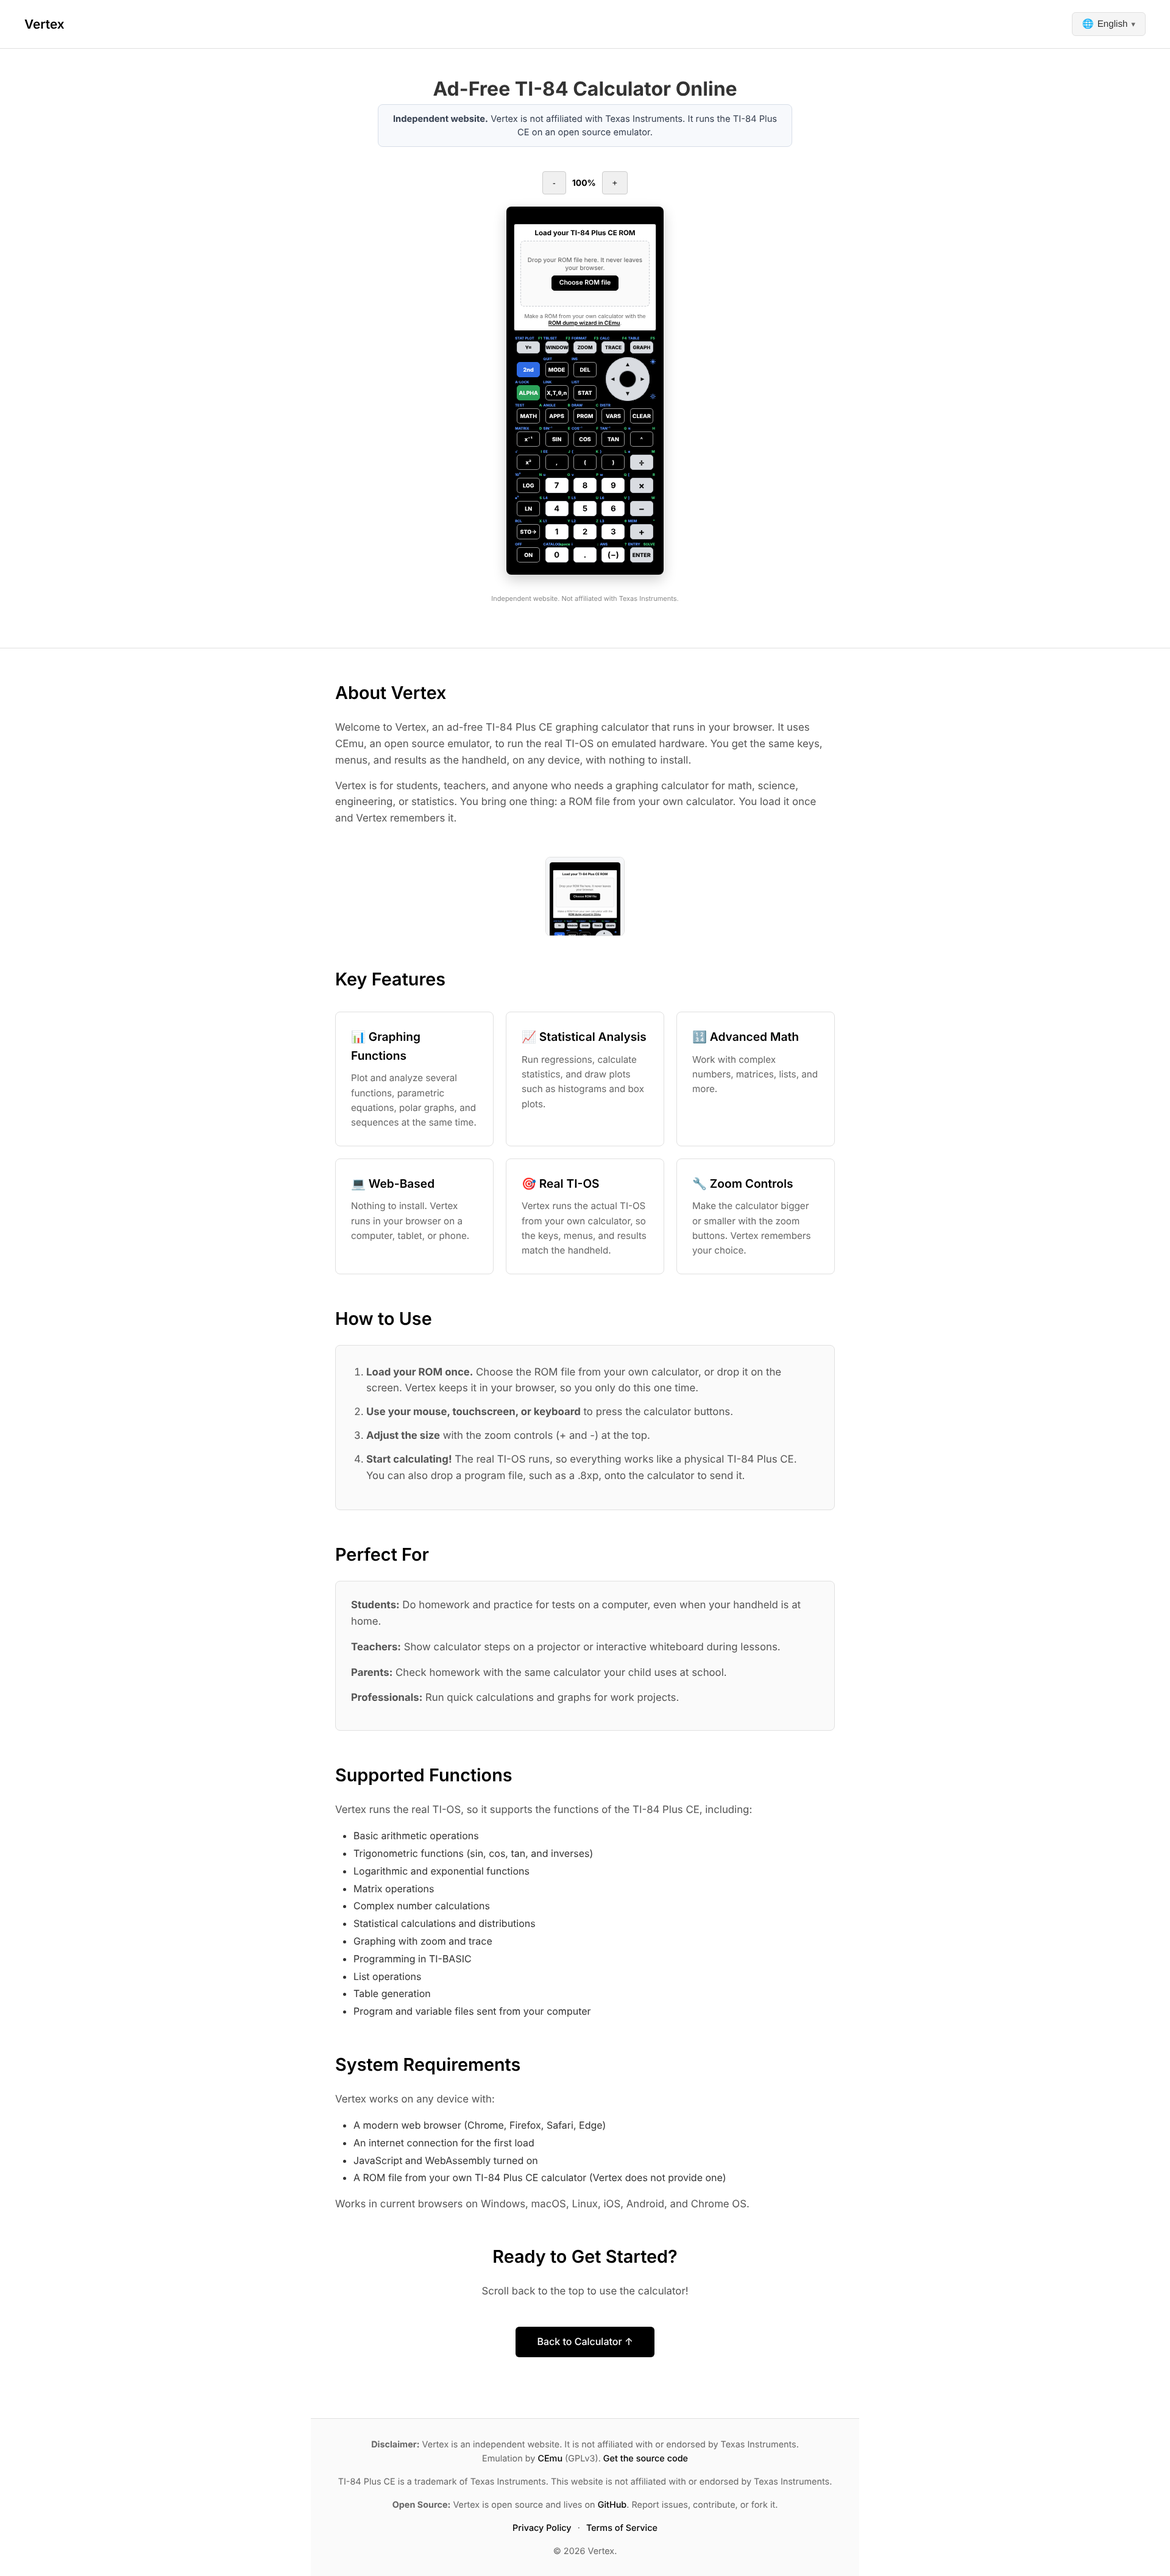
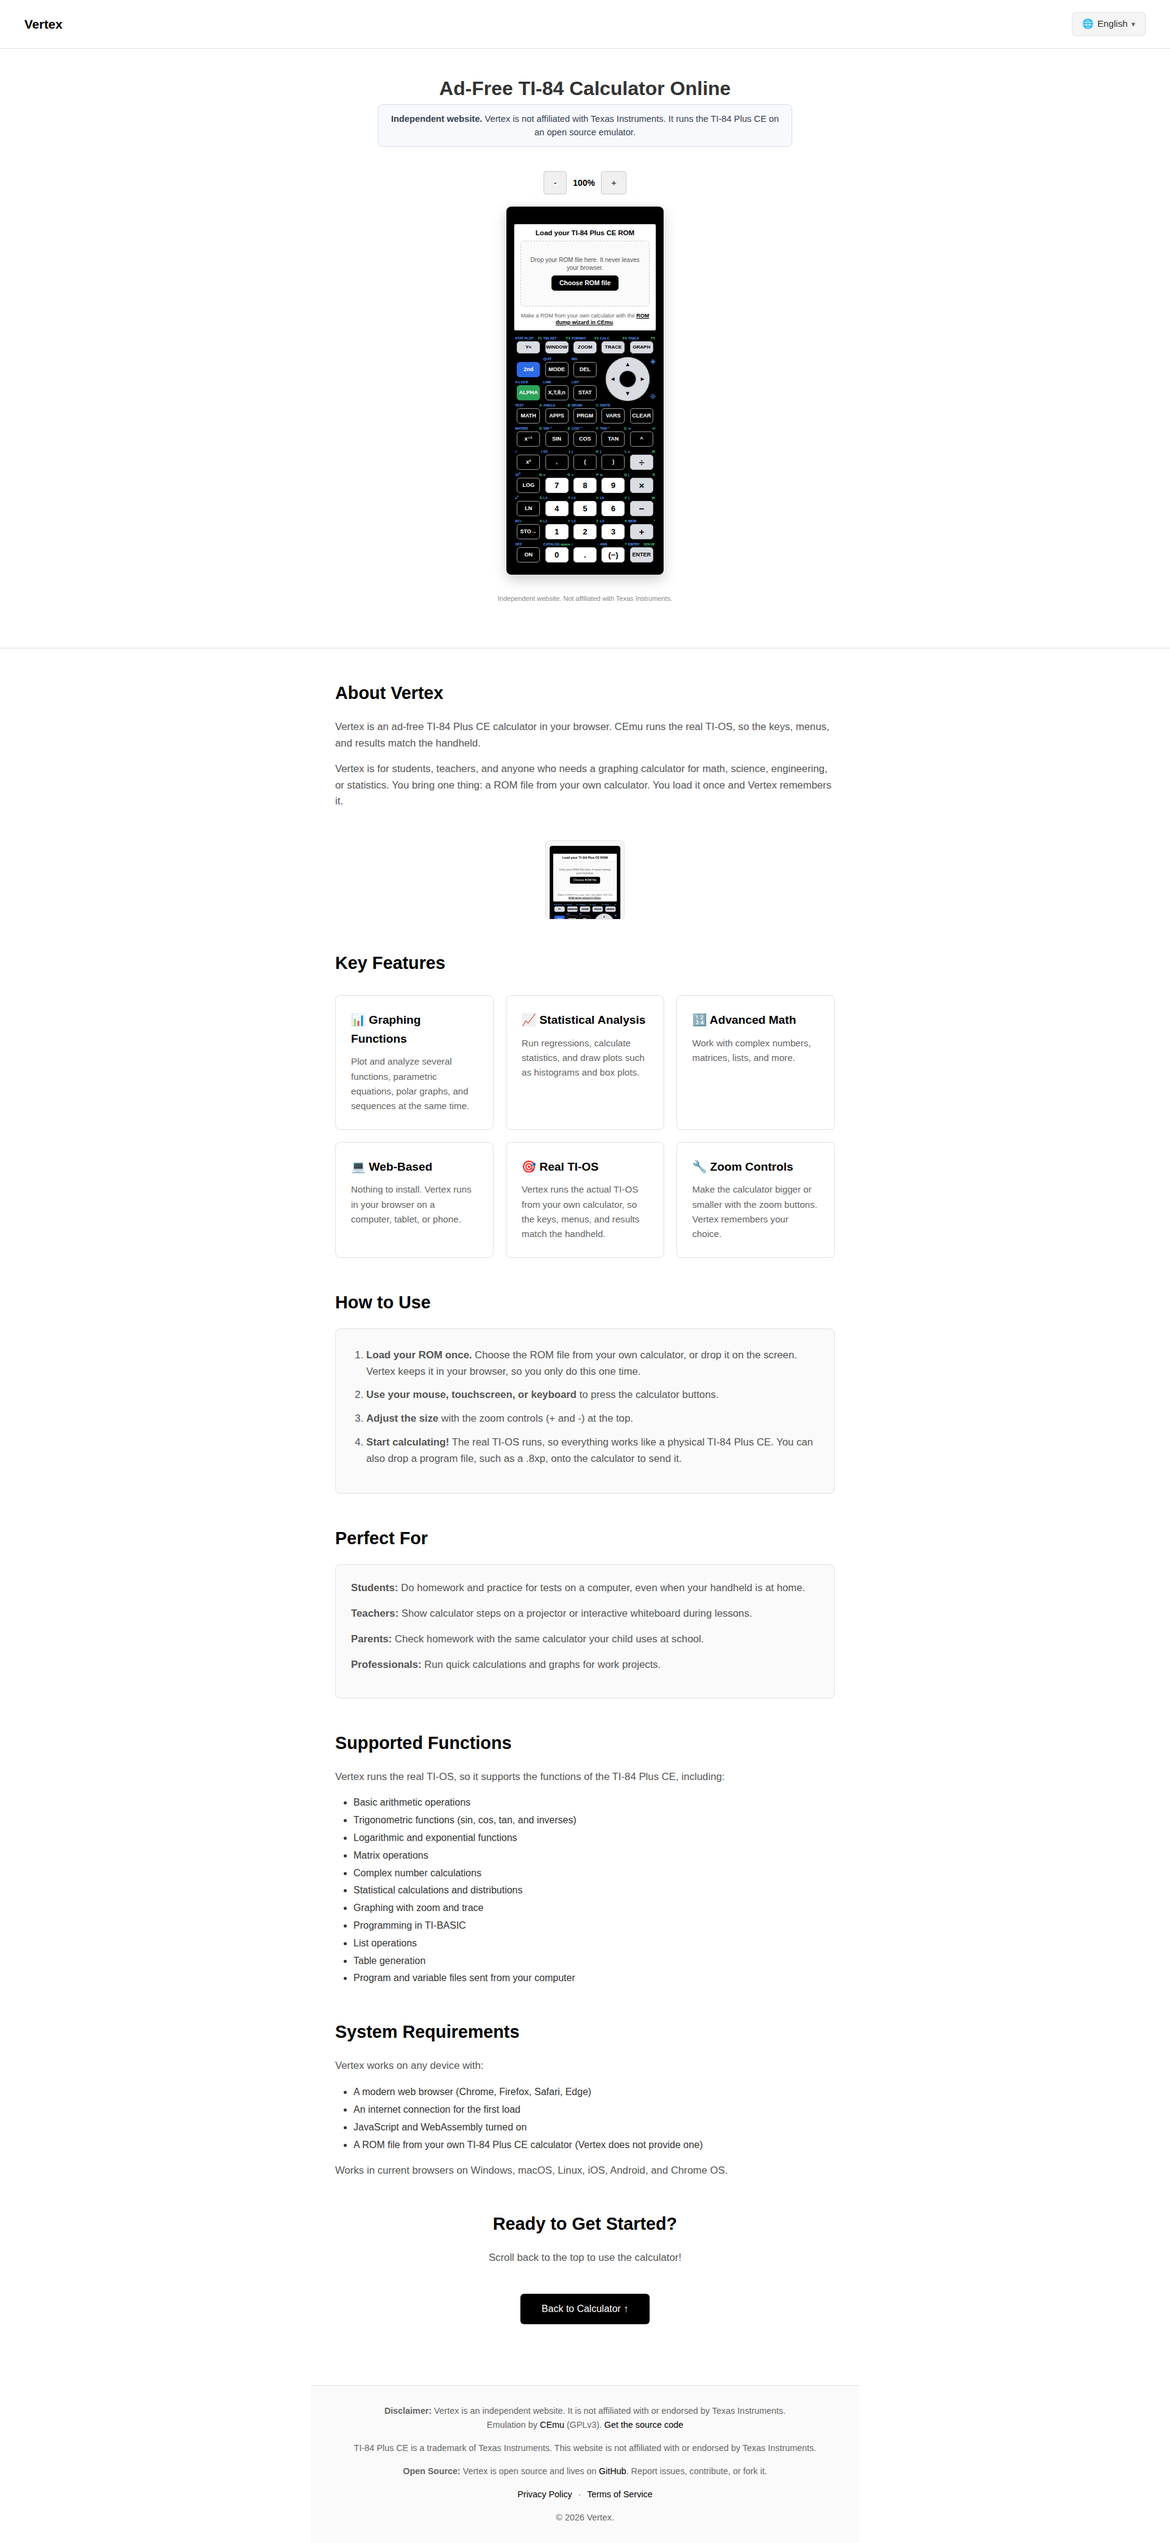
fix(site): shorter About copy in nine languages, calmer legend spacing, R2b docs
- The first About paragraph is shortened in en fr de ja it es pt sv ru so it wraps to two lines at 1920 px. The ROM
  paragraph is unchanged. Each language keeps its ad-free phrase. About to Key Features measures 443.0 (was 469.9).
- copy.test.ts caps the paragraph length and keeps the ROM sentence. e2e/site.spec.ts measures the real wrap per language.
- Legends: letter-spacing -0.02em so CATALOG and space no longer touch in the default font (1.1 px gap at 100% and 135%).
- Docs: STATUS, DECISIONS (R2b) and VERIFICATION (F1, F5, F9, F10, F11) with the new numbers. Fresh screenshots and
  legend crops. compare-reference.mjs could not run (reference file not in this sandbox), Firefox and WebKit not run.

Claude-Session: https://claude.ai/code/session_01JjD4aa8Tj5dBMUu8wuaNiu

diff --git a/ru/index.html b/ru/index.html
@@ -52,7 +52,7 @@
         <div class="content">
             <div class="section">
                 <h2>О Vertex</h2>
-                <p>Добро пожаловать в Vertex, графический калькулятор TI-84 Plus CE без рекламы, который работает в вашем браузере. Он использует CEmu, эмулятор с открытым исходным кодом, чтобы запускать настоящую TI-OS на эмулируемом оборудовании. Клавиши, меню и результаты те же, что на самом калькуляторе, на любом устройстве и без установки.</p>
+                <p>В Vertex TI-84 Plus CE работает в вашем браузере без рекламы. CEmu запускает настоящую TI-OS, поэтому клавиши, меню и результаты те же, что на калькуляторе.</p>
                 <p>Vertex подходит школьникам, студентам, учителям и всем, кому нужен графический калькулятор для математики, естественных наук, инженерного дела или статистики. Нужна только одна вещь: файл ROM от вашего собственного калькулятора. Вы загружаете его один раз, и Vertex его запоминает.</p>
             </div>
 

diff --git a/src/site/i18n/ru.ts b/src/site/i18n/ru.ts
@@ -14,7 +14,7 @@ export const ru: Strings = {
   about: {
     heading: 'О {brand}',
     paragraphs: [
-      'Добро пожаловать в {brand}, графический калькулятор TI-84 Plus CE без рекламы, который работает в вашем браузере. Он использует CEmu, эмулятор с открытым исходным кодом, чтобы запускать настоящую TI-OS на эмулируемом оборудовании. Клавиши, меню и результаты те же, что на самом калькуляторе, на любом устройстве и без установки.',
+      'В {brand} TI-84 Plus CE работает в вашем браузере без рекламы. CEmu запускает настоящую TI-OS, поэтому клавиши, меню и результаты те же, что на калькуляторе.',
       '{brand} подходит школьникам, студентам, учителям и всем, кому нужен графический калькулятор для математики, естественных наук, инженерного дела или статистики. Нужна только одна вещь: файл ROM от вашего собственного калькулятора. Вы загружаете его один раз, и {brand} его запоминает.',
     ],
   },

diff --git a/src/site/i18n/copy.test.ts b/src/site/i18n/copy.test.ts
@@ -81,6 +81,21 @@ describe('copy', () => {
     expect(s.about.paragraphs[0]!.toLowerCase(), `${lang} about`).toContain(phrase);
   });
 
+  /**
+   * The first About paragraph is kept short so it wraps to two lines at 1920 px (e2e/site.spec.ts measures the real wrap).
+   * 175 characters is the longest of the nine that fits in two lines of the 820 px column. Japanese is full width, so
+   * about 48 characters fit in a line.
+   */
+  it.each(LANGS)('%s keeps the first About paragraph short enough for two lines', (lang: Lang) => {
+    const first = STRINGS[lang].about.paragraphs[0]!.replaceAll('{brand}', 'Vertex');
+    expect(first.length, `${lang} first About paragraph`).toBeLessThanOrEqual(lang === 'ja' ? 90 : 175);
+  });
+
+  it.each(LANGS)('%s keeps the ROM sentence in the second About paragraph', (lang: Lang) => {
+    expect(STRINGS[lang].about.paragraphs, lang).toHaveLength(2);
+    expect(STRINGS[lang].about.paragraphs[1]!, `${lang} second About paragraph`).toContain('ROM');
+  });
+
   it.each(LANGS)('%s no longer sells the site as free of charge', (lang: Lang) => {
     const costWords = /(?<!ad-)\bfree\b|gratuit|kostenlos|無料|gratis|grátis|бесплатн/i;
     for (const [path, text] of collect(STRINGS[lang])) expect(text, `${lang} ${path}`).not.toMatch(costWords);

diff --git a/fr/index.html b/fr/index.html
@@ -52,7 +52,7 @@
         <div class="content">
             <div class="section">
                 <h2>À propos de Vertex</h2>
-                <p>Bienvenue sur Vertex, une calculatrice graphique TI-84 Plus CE sans publicité qui fonctionne dans votre navigateur. Elle utilise CEmu, un émulateur open source, pour faire tourner le vrai TI-OS sur un matériel émulé. Vous retrouvez les mêmes touches, les mêmes menus et les mêmes résultats que sur la calculatrice, sur n’importe quel appareil, sans rien installer.</p>
+                <p>Vertex est une TI-84 Plus CE sans publicité dans votre navigateur. CEmu exécute le vrai TI-OS, donc les touches, les menus et les résultats sont ceux de la calculatrice.</p>
                 <p>Vertex s’adresse aux élèves, aux étudiants, aux enseignants et à toute personne qui a besoin d’une calculatrice graphique pour les maths, les sciences, l’ingénierie ou les statistiques. Vous apportez une seule chose : un fichier ROM de votre propre calculatrice. Vous le chargez une fois et Vertex s’en souvient.</p>
             </div>
 

diff --git a/ja/index.html b/ja/index.html
@@ -52,7 +52,7 @@
         <div class="content">
             <div class="section">
                 <h2>Vertexについて</h2>
-                <p>Vertexへようこそ。ブラウザで動く広告なしのTI-84 Plus CEグラフ電卓です。オープンソースのエミュレーターCEmuを使い、エミュレートしたハードウェア上で本物のTI-OSを動かします。キーもメニューも結果も実機と同じで、どの端末でも、インストールなしで使えます。</p>
+                <p>Vertexは、ブラウザで使える広告なしのTI-84 Plus CEです。CEmuが本物のTI-OSを動かすので、キーもメニューも結果も実機と同じです。</p>
                 <p>Vertexは、数学、理科、工学、統計のためにグラフ電卓が必要な学生、教師、そのほかすべての方に向けたものです。必要なのは、ご自身の電卓から取り出したROMファイルだけです。一度読み込めば、Vertexが覚えています。</p>
             </div>
 

diff --git a/src/site/i18n/fr.ts b/src/site/i18n/fr.ts
@@ -14,7 +14,7 @@ export const fr: Strings = {
   about: {
     heading: 'À propos de {brand}',
     paragraphs: [
-      'Bienvenue sur {brand}, une calculatrice graphique TI-84 Plus CE sans publicité qui fonctionne dans votre navigateur. Elle utilise CEmu, un émulateur open source, pour faire tourner le vrai TI-OS sur un matériel émulé. Vous retrouvez les mêmes touches, les mêmes menus et les mêmes résultats que sur la calculatrice, sur n’importe quel appareil, sans rien installer.',
+      '{brand} est une TI-84 Plus CE sans publicité dans votre navigateur. CEmu exécute le vrai TI-OS, donc les touches, les menus et les résultats sont ceux de la calculatrice.',
       '{brand} s’adresse aux élèves, aux étudiants, aux enseignants et à toute personne qui a besoin d’une calculatrice graphique pour les maths, les sciences, l’ingénierie ou les statistiques. Vous apportez une seule chose : un fichier ROM de votre propre calculatrice. Vous le chargez une fois et {brand} s’en souvient.',
     ],
   },

diff --git a/pt/index.html b/pt/index.html
@@ -52,7 +52,7 @@
         <div class="content">
             <div class="section">
                 <h2>Sobre o Vertex</h2>
-                <p>Bem-vindo ao Vertex, uma calculadora gráfica TI-84 Plus CE sem anúncios que funciona no seu navegador. Ele usa o CEmu, um emulador de código aberto, para executar o TI-OS real em um hardware emulado. Você tem as mesmas teclas, os mesmos menus e os mesmos resultados da calculadora física, em qualquer dispositivo e sem instalar nada.</p>
+                <p>O Vertex é uma TI-84 Plus CE sem anúncios no seu navegador. O CEmu executa o TI-OS real, então as teclas, os menus e os resultados são os da calculadora.</p>
                 <p>O Vertex é para estudantes, professores e qualquer pessoa que precise de uma calculadora gráfica para matemática, ciências, engenharia ou estatística. Você traz uma única coisa: um arquivo ROM da sua própria calculadora. Você o carrega uma vez e o Vertex se lembra dele.</p>
             </div>
 

diff --git a/e2e/site.spec.ts b/e2e/site.spec.ts
@@ -95,6 +95,22 @@ test.describe('landing page', () => {
     expect((await archive.body()).byteLength).toBeGreaterThan(1_000_000);
   });
 
+  for (const lang of LANGS) {
+    test(`${lang}: the first About paragraph wraps to two lines at 1920 px`, async ({ page, isMobile }) => {
+      test.skip(isMobile, 'The 1920 px layout is a desktop check');
+      await page.setViewportSize({ width: 1920, height: 855 });
+      const home = pages.find((p) => p.kind === 'home' && p.lang === lang)!;
+      await page.goto(urlOf(home.file));
+      const lines = await page
+        .locator('.content .section p')
+        .first()
+        .evaluate((p) =>
+          Math.round(p.getBoundingClientRect().height / parseFloat(getComputedStyle(p).lineHeight)),
+        );
+      expect(lines).toBeLessThanOrEqual(2);
+    });
+  }
+
   test('"Back to Calculator" scrolls to the top', async ({ page }) => {
     await page.goto('/');
     await page.locator('.cta-button').scrollIntoViewIfNeeded();

diff --git a/src/site/i18n/ja.ts b/src/site/i18n/ja.ts
@@ -14,7 +14,7 @@ export const ja: Strings = {
   about: {
     heading: '{brand}について',
     paragraphs: [
-      '{brand}へようこそ。ブラウザで動く広告なしのTI-84 Plus CEグラフ電卓です。オープンソースのエミュレーターCEmuを使い、エミュレートしたハードウェア上で本物のTI-OSを動かします。キーもメニューも結果も実機と同じで、どの端末でも、インストールなしで使えます。',
+      '{brand}は、ブラウザで使える広告なしのTI-84 Plus CEです。CEmuが本物のTI-OSを動かすので、キーもメニューも結果も実機と同じです。',
       '{brand}は、数学、理科、工学、統計のためにグラフ電卓が必要な学生、教師、そのほかすべての方に向けたものです。必要なのは、ご自身の電卓から取り出したROMファイルだけです。一度読み込めば、{brand}が覚えています。',
     ],
   },

diff --git a/es/index.html b/es/index.html
@@ -52,7 +52,7 @@
         <div class="content">
             <div class="section">
                 <h2>Acerca de Vertex</h2>
-                <p>Te damos la bienvenida a Vertex, una calculadora gráfica TI-84 Plus CE sin anuncios que funciona en tu navegador. Usa CEmu, un emulador de código abierto, para ejecutar el TI-OS real en un hardware emulado. Tienes las mismas teclas, los mismos menús y los mismos resultados que en la calculadora física, en cualquier dispositivo y sin instalar nada.</p>
+                <p>Vertex es una TI-84 Plus CE sin anuncios en tu navegador. CEmu ejecuta el TI-OS real, así que las teclas, los menús y los resultados son los de la calculadora.</p>
                 <p>Vertex es para estudiantes, docentes y cualquiera que necesite una calculadora gráfica para matemáticas, ciencias, ingeniería o estadística. Tú aportas una sola cosa: un archivo ROM de tu propia calculadora. Lo cargas una vez y Vertex lo recuerda.</p>
             </div>
 

diff --git a/de/index.html b/de/index.html
@@ -52,7 +52,7 @@
         <div class="content">
             <div class="section">
                 <h2>Über Vertex</h2>
-                <p>Willkommen bei Vertex, einem werbefreien grafikfähigen TI-84 Plus CE, der in deinem Browser läuft. Er nutzt CEmu, einen Open-Source-Emulator, um das echte TI-OS auf emulierter Hardware auszuführen. Du bekommst dieselben Tasten, Menüs und Ergebnisse wie beim Handgerät, auf jedem Gerät und ohne Installation.</p>
+                <p>Vertex ist ein werbefreier TI-84 Plus CE in deinem Browser. CEmu führt das echte TI-OS aus, daher stimmen Tasten, Menüs und Ergebnisse mit dem Handgerät überein.</p>
                 <p>Vertex ist für Schülerinnen, Schüler, Lehrkräfte und alle, die einen Grafikrechner für Mathe, Naturwissenschaften, Technik oder Statistik brauchen. Du bringst nur eines mit: eine ROM-Datei von deinem eigenen Rechner. Du lädst sie einmal, und Vertex merkt sie sich.</p>
             </div>
 

diff --git a/it/index.html b/it/index.html
@@ -52,7 +52,7 @@
         <div class="content">
             <div class="section">
                 <h2>Informazioni su Vertex</h2>
-                <p>Benvenuto su Vertex, una calcolatrice grafica TI-84 Plus CE senza pubblicità che funziona nel tuo browser. Usa CEmu, un emulatore open source, per eseguire il vero TI-OS su hardware emulato. Hai gli stessi tasti, gli stessi menu e gli stessi risultati della calcolatrice fisica, su qualsiasi dispositivo e senza installare nulla.</p>
+                <p>Vertex è una TI-84 Plus CE senza pubblicità nel tuo browser. CEmu esegue il vero TI-OS, quindi tasti, menu e risultati sono quelli della calcolatrice.</p>
                 <p>Vertex è pensato per studenti, insegnanti e chiunque abbia bisogno di una calcolatrice grafica per matematica, scienze, ingegneria o statistica. Serve una sola cosa: un file ROM della tua calcolatrice. Lo carichi una volta e Vertex lo ricorda.</p>
             </div>
 
